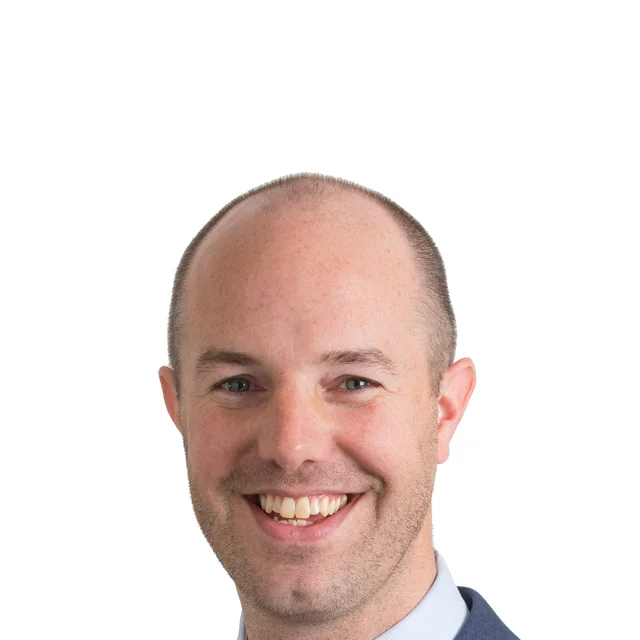
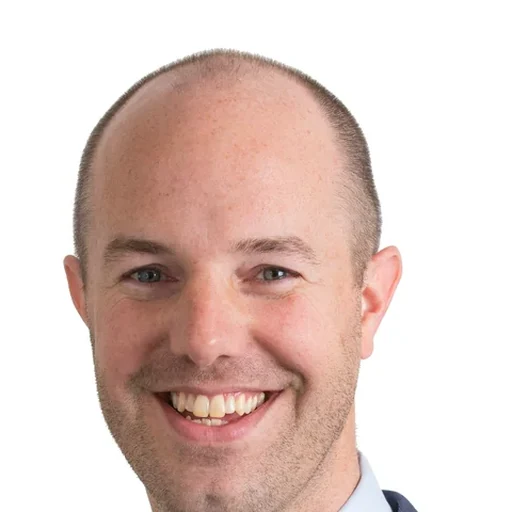
Feedbackronde: opbouw assessmentpagina, foto, formulier en auteursblok
Opbouw van de assessmentpagina
Twee blokken verplaatst naar de voorgestelde volgorde: de uitleg staat nu
voor het kijkje in de vragenlijst, en de wetenschappelijke onderbouwing is
naar achteren gegaan, na de testimonials. De volgorde is daarmee: header met
sociale bewijskracht, uitleg, voorbeeldvragen, in drie stappen, quote,
testimonials, onderbouwing, veelgestelde vragen, aanvraagformulier,
gerelateerde assessments.

Elk blok heeft nu een knop. Nieuw bij de testimonials, de onderbouwing en de
veelgestelde vragen, in alle zes talen. Bij de vragen ook een tweede knop
naar contact voor wie er niet uitkomt.

Aanvraagformulier
De kop stond links en het formulier zweefde gecentreerd in een bredere
kolom. Kop en formulier zitten nu in dezelfde wikkel van 760 pixels en
delen dus hun linkerrand.

Voorbeeldweergave
De regel zei dat antwoorden niet worden bewaard, wat de vraag oproept of je
kunt antwoorden. Nu: vragen zijn niet aanklikbaar. In alle zes talen.

Foto
De foto had veel wit boven het hoofd, waardoor het hoofd laag in het kader
viel. Opnieuw uitgesneden rond het hoofd met wat lucht erboven, 512 bij 512.
Dit werkt door op de contactpagina, het auteursblok en de quote.

Auteursblok in het kenniscentrum
Vier gemigreerde artikelen brengen hun eigen paginaopmaak mee: een <article>
eromheen en een <section> met max-width en margin 0 auto. Die wrapper liep
dwars door de opmaak heen, waardoor het auteursblok breder uitviel dan de
[…]

diff --git a/src/data/assessment-detail-ui.js b/src/data/assessment-detail-ui.js
@@ -21,6 +21,7 @@ export const detailUi = {
     step2t: "Nodig kandidaten uit", step2b: "Verstuur in één klik een persoonlijke uitnodigingslink. Kandidaten vullen online in, in hun eigen taal.",
     step3t: "Ontvang het rapport", step3b: "Zodra de vragenlijst is ingevuld, staat het heldere rapport klaar, direct bruikbaar in je gesprek of besluit.",
     demoPlain: "Plan een gratis demo", licenseOptions: "Bekijk de licentieopties",
+    blokCta: "{t} aanvragen", faqCta: "Staat je vraag er niet bij? Neem contact op",
     requestEyebrow: "Aanvragen", requestTitle: "{t} aanvragen", requestLead: "Vul het formulier in en krijg binnen 24 uur toegang.",
     firstName: "Voornaam *", workEmail: "Werk e-mail *", company: "Bedrijfsnaam", submit: "Verzenden",
     home: "Home",
@@ -45,6 +46,7 @@ export const detailUi = {
     step2t: "Invite candidates", step2b: "Send a personal invitation link in one click. Candidates complete it online, in their own language.",
     step3t: "Receive the report", step3b: "Once the questionnaire is completed, the clear report is ready, immediately usable in your conversation or decision.",
     demoPlain: "Book a free demo", licenseOptions: "View the licensing options",
+    blokCta: "Request {t}", faqCta: "Question not listed? Get in touch",
     requestEyebrow: "Request", requestTitle: "Request {t}", requestLead: "Fill in the form and get access within 24 hours.",
     firstName: "First name *", workEmail: "Work email *", company: "Company name", submit: "Send",
     home: "Home",
@@ -69,6 +71,7 @@ export const detailUi = {
     step2t: "Kandidaten einladen", step2b: "Versenden Sie mit einem Klick einen persönlichen Einladungslink. Kandidaten füllen online aus, in ihrer eigenen Sprache.",
     step3t: "Bericht erhalten", step3b: "Sobald der Fragebogen ausgefüllt ist, steht der übersichtliche Bericht bereit, direkt nutzbar für Ihr Gespräch oder Ihre Entscheidung.",
     demoPlain: "Kostenlose Demo buchen", licenseOptions: "Lizenzoptionen ansehen",
+    blokCta: "{t} anfragen", faqCta: "Ihre Frage nicht dabei? Nehmen Sie Kontakt auf",
     requestEyebrow: "Anfragen", requestTitle: "{t} anfragen", requestLead: "Füllen Sie das Formular aus und erhalten Sie innerhalb von 24 Stunden Zugang.",
     firstName: "Vorname *", workEmail: "Geschäftliche E-Mail *", company: "Firmenname", submit: "Absenden",
     home: "Home",
@@ -93,6 +96,7 @@ export const detailUi = {
     step2t: "Invitez les candidats", step2b: "Envoyez un lien d'invitation personnel en un clic. Les candidats répondent en ligne, dans leur propre langue.",
     step3t: "Recevez le rapport", step3b: "Dès que le questionnaire est rempli, le rapport clair est prêt, directement utilisable dans votre entretien ou décision.",
     demoPlain: "Réserver une démo gratuite", licenseOptions: "Voir les options de licence",
+    blokCta: "Demander {t}", faqCta: "Votre question ne figure pas ici ? Contactez-nous",
     requestEyebrow: "Demander", requestTitle: "Demander {t}", requestLead: "Remplissez le formulaire et obtenez l'accès sous 24 heures.",
     firstName: "Prénom *", workEmail: "E-mail professionnel *", company: "Nom de l'entreprise", submit: "Envoyer",
     home: "Accueil",
@@ -117,6 +121,7 @@ export const detailUi = {
     step2t: "Invita a los candidatos", step2b: "Envía un enlace de invitación personal con un clic. Los candidatos completan online, en su propio idioma.",
     step3t: "Recibe el informe", step3b: "Una vez completado el cuestionario, el informe claro está listo, directamente utilizable en tu conversación o decisión.",
     demoPlain: "Reservar una demo gratis", licenseOptions: "Ver las opciones de licencia",
+    blokCta: "Solicitar {t}", faqCta: "¿Tu pregunta no está aquí? Ponte en contacto",
     requestEyebrow: "Solicitar", requestTitle: "Solicitar {t}", requestLead: "Rellena el formulario y obtén acceso en 24 horas.",
     firstName: "Nombre *", workEmail: "Correo de trabajo *", company: "Nombre de la empresa", submit: "Enviar",
     home: "Inicio",
@@ -141,6 +146,7 @@ export const detailUi = {
     step2t: "Invită candidații", step2b: "Trimite un link de invitație personal dintr-un clic. Candidații completează online, în propria limbă.",
     step3t: "Primește raportul", step3b: "Odată completat chestionarul, raportul clar este gata, direct utilizabil în discuția sau decizia ta.",
     demoPlain: "Rezervă o demonstrație gratuită", licenseOptions: "Vezi opțiunile de licență",
+    blokCta: "Solicită {t}", faqCta: "Întrebarea ta nu apare aici? Ia legătura cu noi",
     requestEyebrow: "Solicită", requestTitle: "Solicită {t}", requestLead: "Completează formularul și obține acces în 24 de ore.",
     firstName: "Prenume *", workEmail: "E-mail de serviciu *", company: "Numele companiei", submit: "Trimite",
     home: "Home",

diff --git a/src/styles/global.css b/src/styles/global.css
@@ -85,7 +85,7 @@ body{
 a{color:inherit;text-decoration:none;transition:color .18s ease}
 img{max-width:100%;height:auto;display:block}
 /* Portretten van het team: hoofd hoger in beeld, anders zakt het weg in het kader */
-img[src*="/media/team/"]{object-fit:cover;object-position:50% 30%}
+img[src*="/media/team/"]{object-fit:cover;object-position:50% 45%}
 svg{max-width:100%}
 strong,b{font-weight:700}
 ul,ol{padding-left:1.1em}
@@ -381,6 +381,11 @@ footer a:hover{color:#fff;opacity:1}
 /* ---------- Formulieren ---------- */
 .formsec{background:var(--bg)}
 .formcard{background:#fff;border:1px solid var(--line);border-radius:var(--radius);padding:clamp(24px,4vw,40px);box-shadow:var(--shadow);max-width:760px;margin:0 auto}
+/* Kop en formulier delen dezelfde linkerrand. Zonder deze wikkel stond de kop
+   links en het formulier gecentreerd, wat scheef oogt. */
+.formwrap{max-width:760px}
+.formwrap .formcard{max-width:none;margin:0}
+
 .formcard .fg,.fg{margin-bottom:18px}
 .formcard label,.fg label{display:block;font-weight:700;font-size:14px;color:var(--navy);margin-bottom:6px}
 .formcard input,.formcard select,.formcard textarea,.fg input,.fg select,.fg textarea{
